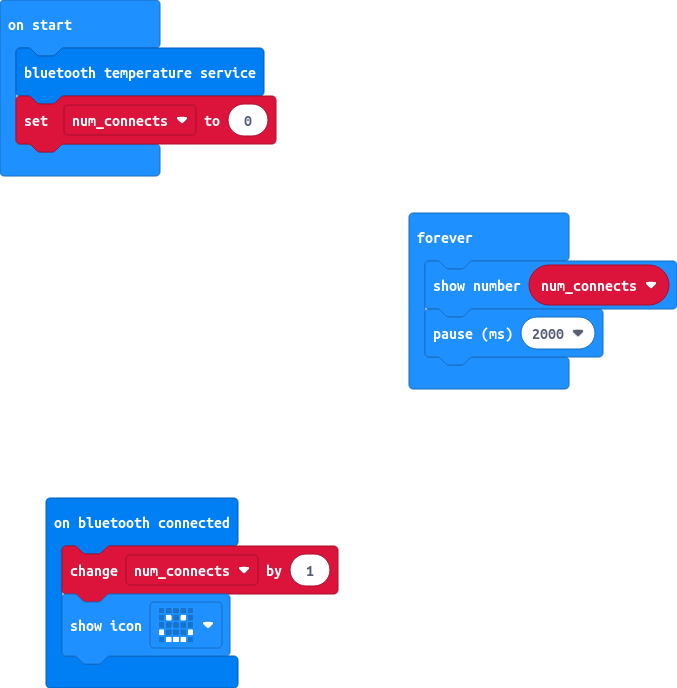
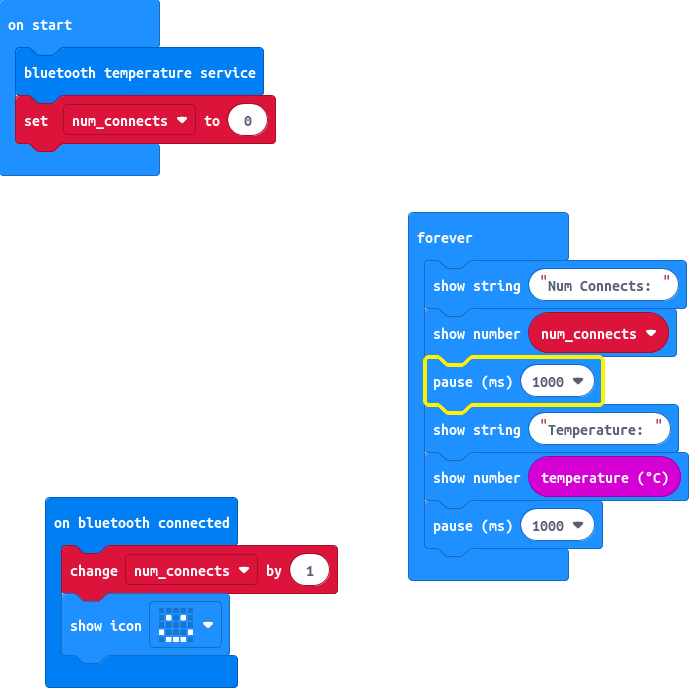
More verbose output - writes temp as well as num connections

diff --git a/main.ts b/main.ts
@@ -5,6 +5,10 @@ bluetooth.onBluetoothConnected(function () {
 bluetooth.startTemperatureService()
 let num_connects = 0
 basic.forever(function () {
+    basic.showString("Num Connects: ")
     basic.showNumber(num_connects)
-    basic.pause(2000)
+    basic.pause(1000)
+    basic.showString("Temperature: ")
+    basic.showNumber(input.temperature())
+    basic.pause(1000)
 })
